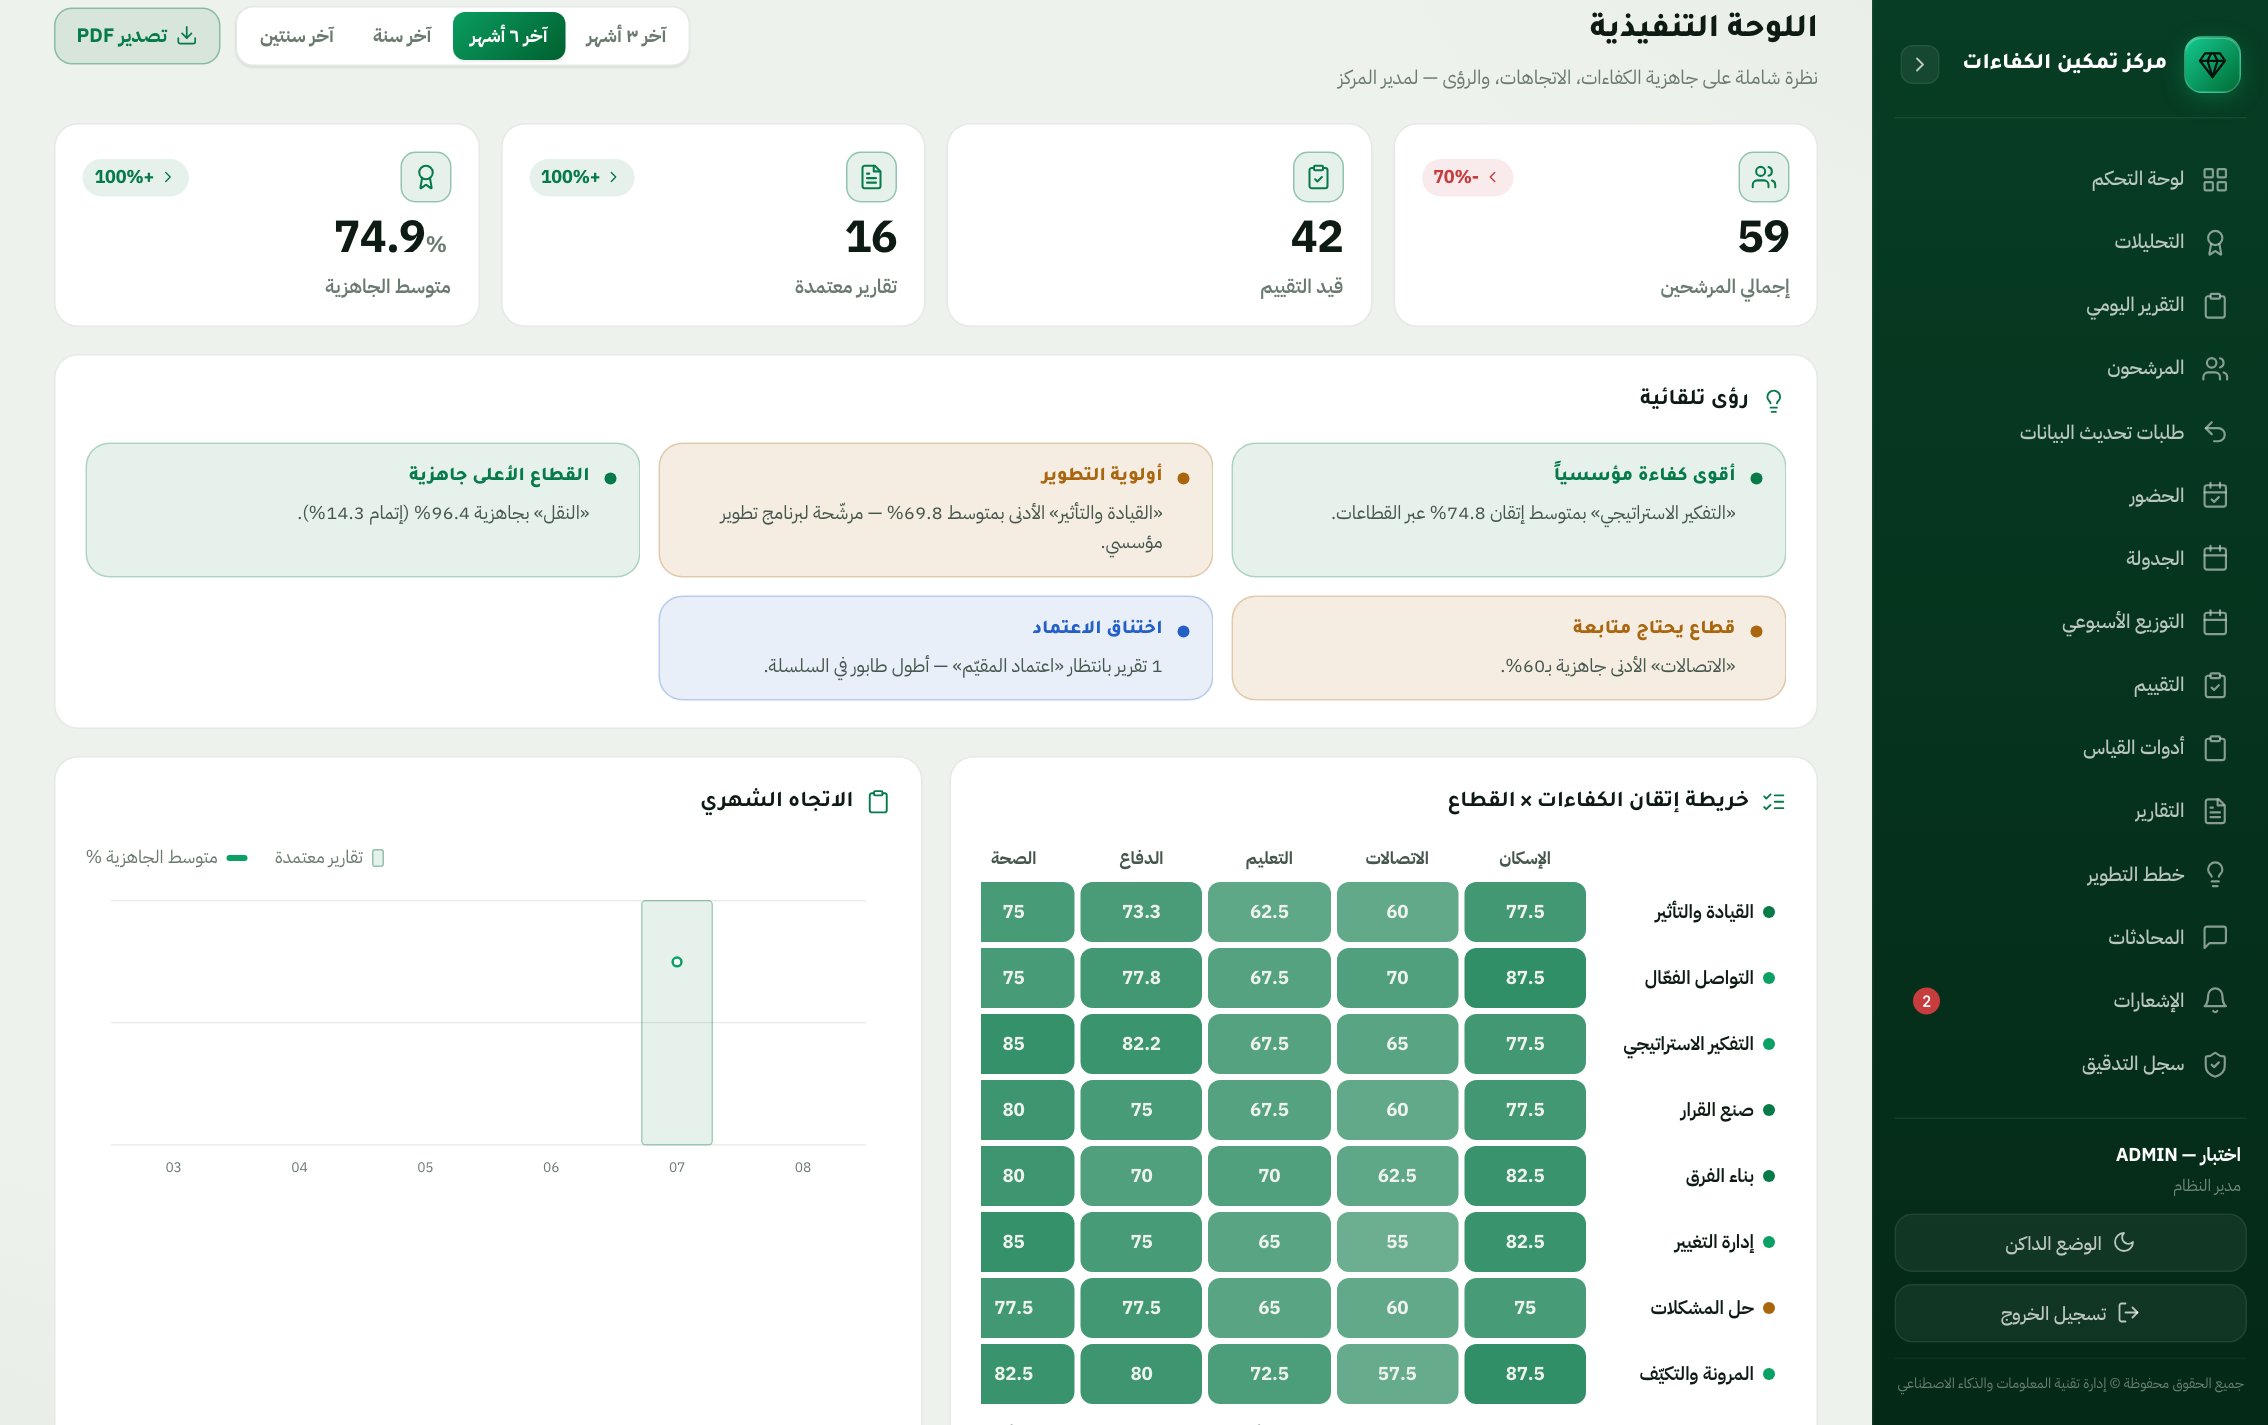
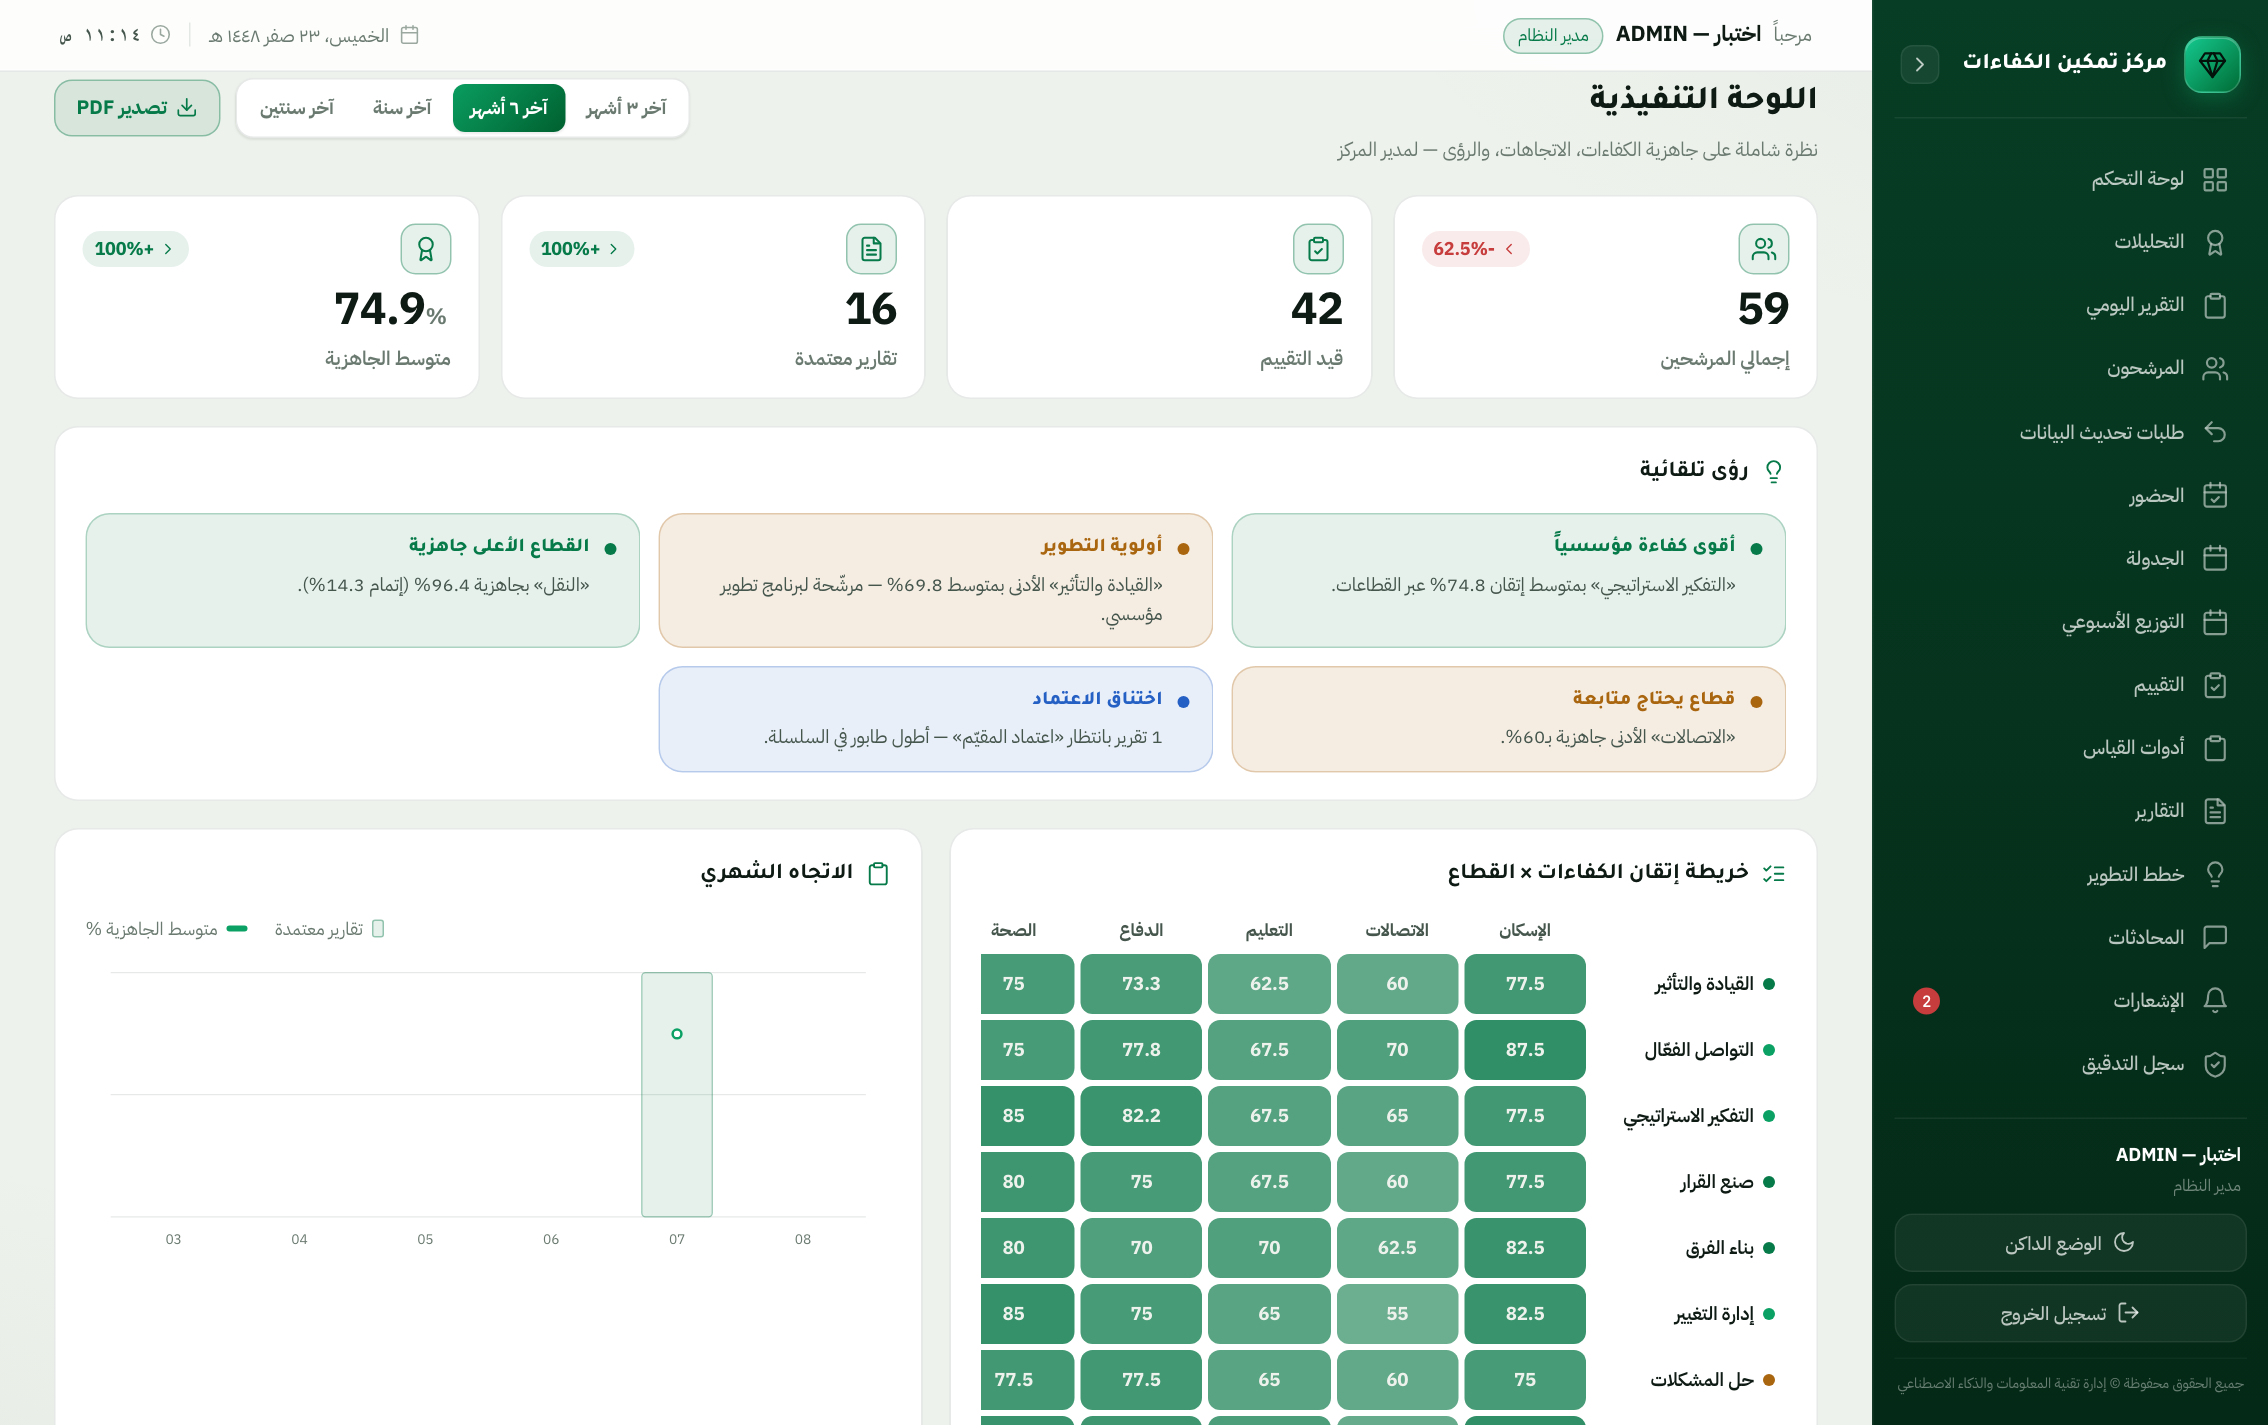
إصلاح: طلب تغيير كلمة المرور كان يتكرّر كل دخول ولا يُقبل الدخول أصلاً
الشكوى: «كل ما ادخل يطلب مني تغيير كلمة المرور». السبب عطلان متراكبان لا واحد:

١) الواجهة تُرفق الرمز المخزَّن بكل طلب، بما فيه /api/login نفسه.
٢) وسيط فرض تغيير كلمة المرور لا يستثني /api/login.

فمستخدمٌ ترك شاشة التغيير دون إتمامها يبقى رمزه في المتصفّح، فيُردّ طلب
دخوله التالي بـ403 ويُقال له «فشل تسجيل الدخول — تأكد من البيانات» وبياناته
صحيحة. ولا مخرج من الدوران إلا بمسح تخزين المتصفّح — والمعترض يمسح الرمز
عند 401 فقط لا عند 403.

الإصلاح ثلاثي: /api/login مستثنى في الوسيط (الدخول ليس إجراءً على المنصّة
بل الطريق إليها)، والواجهة لا تُرفق رمزاً بطلب الدخول، و403 المصحوب بـ
mustChangePassword يسوق إلى شاشة التغيير لا إلى رسالة غامضة.

ثمانية اختبارات تقفل السلوك، أهمّها «الدخول يعمل ولو أُرفق رمز قديم» و
«لا يُطلب في الدخول التالي» عبر ثلاث دورات دخول متتالية.

diff --git a/tests/Feature/ForcedPasswordChangeOnceTest.php b/tests/Feature/ForcedPasswordChangeOnceTest.php
@@ -1,0 +1,169 @@
+<?php
+
+namespace Tests\Feature;
+
+use App\Models\Role;
+use App\Models\User;
+use Illuminate\Foundation\Testing\RefreshDatabase;
+use Illuminate\Support\Facades\Cache;
+use Tests\TestCase;
+
+// ════════════════════════════════════════════════════════════
+//  إلزام تغيير كلمة المرور يقع **مرّة واحدة**.
+//
+//  عطلٌ هنا لا يبدو عطلاً: المستخدم يغيّر كلمته ثم يُطلَب منه تغييرها في كل
+//  دخول، فيظنّ أن تغييره لم يُحفظ، ويكرّره، ويفقد الثقة بالنظام كلّه. ولا
+//  يظهر في أي اختبار يفحص «هل نجح التغيير؟» — لأنه ينجح. يظهر فقط عند
+//  فحص **الدخول التالي**.
+// ════════════════════════════════════════════════════════════
+class ForcedPasswordChangeOnceTest extends TestCase
+{
+    use RefreshDatabase;
+
+    protected $seed = true;
+
+    private const USER = 'pw_once_user';
+    private const TEMP = 'Temp@12345';
+    private const NEW = 'Chosen@98765';
+
+    protected function setUp(): void
+    {
+        parent::setUp();
+        // مسار الدخول محدود بعشر محاولات في الدقيقة لكل عنوان، وذاكرة الاختبار
+        // من نوع array تعيش مع العملية لا مع الاختبار — فعدّاد المحاولات يتراكم
+        // عبر الاختبارات حتى يُخنق دخولٌ مشروع، فيبدو العطل في المنتَج وهو في
+        // عزل الاختبارات. تصفيره هنا يجعل كل اختبار يبدأ من صفر.
+        Cache::flush();
+    }
+
+    private function makeUser(bool $forced = true): User
+    {
+        return User::create([
+            'username' => self::USER,
+            'full_name' => 'موظّف',
+            'email' => 'pwonce@kafaat.local',
+            'password' => self::TEMP,
+            'role_id' => Role::where('code', 'SCHEDULER')->firstOrFail()->id,
+            'is_active' => true,
+            'must_change_password' => $forced,
+        ]);
+    }
+
+    private function login(string $password): \Illuminate\Testing\TestResponse
+    {
+        return $this->postJson('/api/login', [
+            'username' => self::USER,
+            'password' => $password,
+        ]);
+    }
+
+    public function test_the_first_login_with_a_temporary_password_demands_a_change(): void
+    {
+        $this->makeUser();
+
+        $this->login(self::TEMP)
+            ->assertOk()
+            ->assertJsonPath('user.mustChangePassword', true);
+    }
+
+    public function test_the_next_login_after_changing_does_not_demand_it_again(): void
+    {
+        $this->makeUser();
+
+        $token = $this->login(self::TEMP)->json('token');
+        $this->withToken($token)->postJson('/api/change-password', [
+            'currentPassword' => self::TEMP,
+            'newPassword' => self::NEW,
+        ])->assertOk();
+
+        // جوهر الاختبار: الدخول **التالي** بالكلمة الجديدة
+        $this->login(self::NEW)
+            ->assertOk()
+            ->assertJsonPath('user.mustChangePassword', false);
+    }
+
+    public function test_it_stays_off_across_repeated_logins(): void
+    {
+        $this->makeUser();
+
+        $token = $this->login(self::TEMP)->json('token');
+        $this->withToken($token)->postJson('/api/change-password', [
+            'currentPassword' => self::TEMP,
+            'newPassword' => self::NEW,
+        ])->assertOk();
+
+        // ثلاث مرّات: عطلٌ دوريّ أو مرتبطٌ بعدّاد لا يظهر في دخولٍ واحد
+        for ($i = 1; $i <= 3; $i++) {
+            $this->login(self::NEW)
+                ->assertOk()
+                ->assertJsonPath('user.mustChangePassword', false);
+        }
+    }
+
+    public function test_an_incomplete_change_keeps_demanding_it(): void
+    {
+        $this->makeUser();
+
+        $token = $this->login(self::TEMP)->json('token');
+        // محاولة فاشلة (كلمة حالية خاطئة) — يجب ألّا تُسقط الإلزام
+        $this->withToken($token)->postJson('/api/change-password', [
+            'currentPassword' => 'WrongCurrent@1',
+            'newPassword' => self::NEW,
+        ])->assertStatus(422);
+
+        $this->login(self::TEMP)
+            ->assertOk()
+            ->assertJsonPath('user.mustChangePassword', true);
+    }
+
+    // العطل الفعلي الذي شكا منه المستخدم: الواجهة تُرفق الرمز المخزَّن بكل
+    // طلب — بما فيه الدخول. ومستخدمٌ ترك شاشة التغيير دون إتمامها يبقى رمزه
+    // في المتصفّح، فكان وسيط الإلزام يردّ **طلب الدخول نفسه** بـ403، فيُقال
+    // له إن بياناته خاطئة وهي صحيحة، ولا مخرج إلا بمسح تخزين المتصفّح.
+    public function test_login_works_even_when_a_stale_token_is_attached(): void
+    {
+        $this->makeUser();
+        $token = $this->login(self::TEMP)->json('token');
+
+        $this->withToken($token)
+            ->postJson('/api/login', ['username' => self::USER, 'password' => self::TEMP])
+            ->assertOk()
+            ->assertJsonPath('user.mustChangePassword', true)
+            ->assertJsonStructure(['token']);
+    }
+
+    public function test_logging_out_stays_possible_while_the_change_is_pending(): void
+    {
+        $this->makeUser();
+        $token = $this->login(self::TEMP)->json('token');
+
+        // الخروج مخرجٌ مشروع أيضاً — سدّه يحبس المستخدم في الشاشة
+        $this->withToken($token)->postJson('/api/logout')->assertOk();
+    }
+
+    public function test_a_user_created_without_the_flag_is_never_asked(): void
+    {
+        $this->makeUser(forced: false);
+
+        $this->login(self::TEMP)
+            ->assertOk()
+            ->assertJsonPath('user.mustChangePassword', false);
+    }
+
+    public function test_the_forced_user_cannot_use_the_platform_before_changing(): void
+    {
+        $this->makeUser();
+        $token = $this->login(self::TEMP)->json('token');
+
+        // الحجب خادمي لا واجهي: تخطّي الشاشة بتغيير الرابط لا يفتح شيئاً
+        $this->withToken($token)->getJson('/api/candidates')->assertStatus(403);
+
+        $this->withToken($token)->postJson('/api/change-password', [
+            'currentPassword' => self::TEMP,
+            'newPassword' => self::NEW,
+        ])->assertOk();
+
+        // وبعد التغيير يُفتح فوراً بالرمز نفسه — لا يلزم دخولٌ جديد
+        $this->withToken($token)->getJson('/api/candidates')->assertOk();
+    }
+}

diff --git a/app/Http/Middleware/EnsurePasswordChanged.php b/app/Http/Middleware/EnsurePasswordChanged.php
@@ -25,6 +25,12 @@ class EnsurePasswordChanged
         'api/change-password',
         'api/logout',
         'api/me',
+        // الدخول ليس إجراءً على المنصّة بل الطريق إليها. استثناؤه إلزامي:
+        // الواجهة تُرفق الرمز المخزَّن بكل طلب، فمستخدمٌ ترك شاشة التغيير دون
+        // إتمامها يبقى رمزه في المتصفّح، فيُردّ طلب دخوله التالي بـ403 ويُقال
+        // له إن بياناته خاطئة وهي صحيحة — فيدور بلا مخرج حتى يمسح تخزين
+        // المتصفّح. الدخول من جديد هو المخرج المشروع لا بابٌ يُسدّ.
+        'api/login',
     ];
 
     public function handle(Request $request, Closure $next): Response

diff --git a/docs/USER_GUIDE.md b/docs/USER_GUIDE.md
@@ -38,8 +38,12 @@
 
 ![تغيير كلمة المرور](guide-images/change-password.png)
 
-إلزامي عند أول دخول، ومتاح في أي وقت بعده. النظام لا يفتح لك أي شاشة أخرى قبل
-إتمامه — وهو منعٌ خادمي لا واجهي: لن ينفع تجاوزه بتغيير الرابط.
+إلزامي عند أول دخول **مرّة واحدة فقط**، ومتاح في أي وقت بعده. النظام لا يفتح
+لك أي شاشة أخرى قبل إتمامه — وهو منعٌ خادمي لا واجهي: لن ينفع تجاوزه بتغيير
+الرابط.
+
+بعد إتمامه لا يُطلب منك مرّة أخرى. وإن غادرت الشاشة دون إتمامه، فالدخول من
+جديد يبقى متاحاً ويعيدك إليها — لا تُحبَس خارج النظام.
 
 > **لمدير النظام:** لإنشاء أول حساب أو فكّ قفل حساب واستعادة الدخول:
 > ```bash
@@ -131,6 +135,19 @@
 ---
 
 ## ٥. دليل الشاشات
+
+### الشريط العلوي — في كل الشاشات
+
+أعلى كل شاشة بعد الدخول:
+
+- **مرحباً، [اسمك]** ودورك في المنصّة — يمينَ الشريط.
+- **تاريخ اليوم الهجري**، ومرّر المؤشر فوقه ليظهر الميلادي.
+- **الساعة**، تتحدّث كل ثانية.
+
+الشريط يلازمك عند التمرير، فالوقت والتاريخ حاضران في شاشات الجدولة والحضور
+حيث يلزمان فعلاً.
+
+---
 
 ### لوحة التحكم
 
